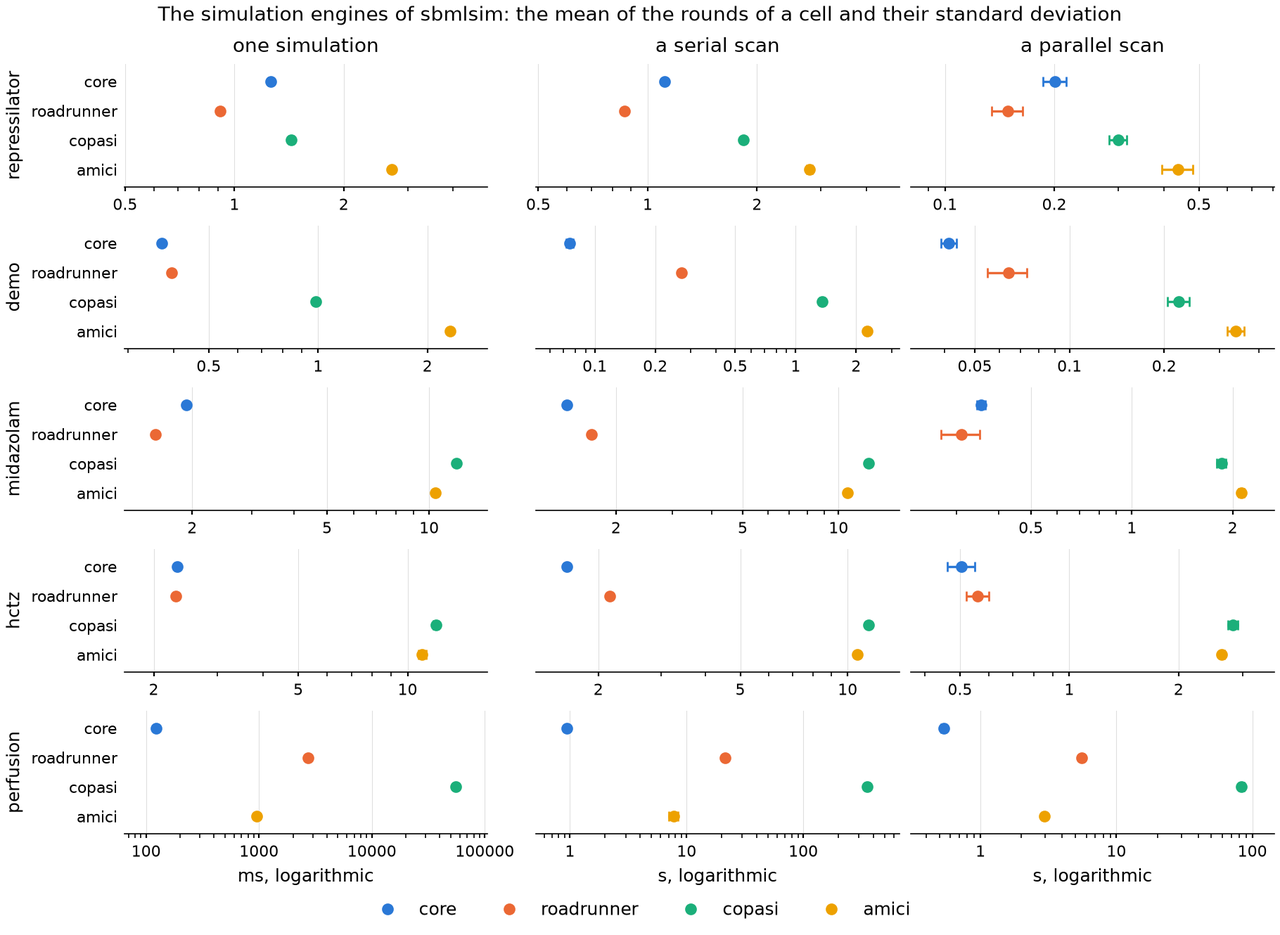
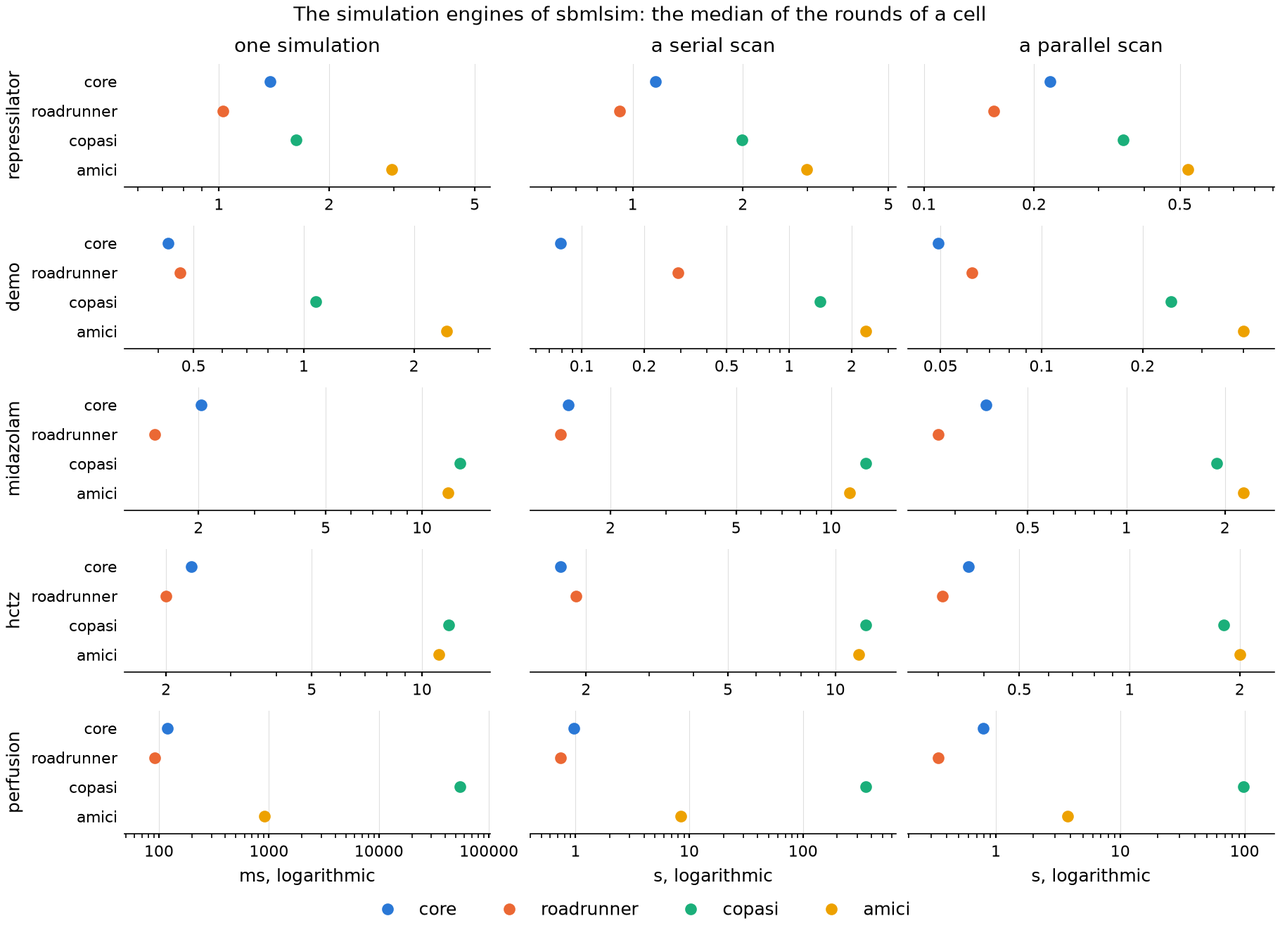
The measured benchmark page: medians, ratios and roadrunner with KLU
The whole page is measured again on an idle machine with libroadrunner
2.12.0.dev683 and sbmlsim-core 0.8.0: the five models, the four engines,
the four cold scans and the four output grids, so no table is left on an
older version.

roadrunner 2.12 turns the page around. With the sparse solver KLU and the
sparse difference quotient Jacobian as its defaults, one simulation of the
large model falls from 2.7 s to 91.7 ms and roadrunner leads it outright,
where it was 22 times behind the engine core. The new section `The sparse
solver of roadrunner` measures the four combinations of the two settings
back to back: 88.5 ms against 2584 ms, a factor of 29, and neither half
helps alone, since the factorization and not the Jacobian evaluation is
where a model of 919 states spends its time.

The cells are medians and the page gains the table of the ratios against
the engine core. The grid table, which was still measured with
sbmlsim-core 0.2.0, is measured again: the crossing it reported is gone,
the ratio is flat between 1.21 and 1.37 across a factor of forty in
output, and the engine core keeps its serial advantage, which is where its
batches gain and its threads do not. The cold scan is the clearest case of
the engines changing places: the first scan of a process costs 0.65 s in
the engine core against 1.2 s in roadrunner, every later one 0.56 s
against 0.31 s.

diff --git a/scripts/engine_benchmark.py b/scripts/engine_benchmark.py
@@ -225,11 +225,12 @@ DISTRIBUTIONS: Final[dict[Engine, str]] = {
 REPETITIONS: Final[int] = 20
 
 #: the rounds of the timed simulations and the scans, whose medians are the
-#: sample the mean and the standard deviation of a cell are taken over, so a
-#: cell is `rounds` measurements and never fewer than `MIN_ROUNDS`
+#: sample the median of a cell is taken over, so a cell is `rounds`
+#: measurements and never fewer than `MIN_ROUNDS`
 ROUNDS: Final[int] = 5
 
-#: the rounds below which a standard deviation says nothing
+#: the rounds below which a median has too small a sample to ignore a round
+#: which was slow because the machine was doing something else
 MIN_ROUNDS: Final[int] = 3
 
 #: the simulations before the timed ones of a round, which are not measured
@@ -432,7 +433,7 @@ MODELS: Final[dict[str, ModelBenchmark]] = {
     # the flow of the pump, the input of such an experiment. One simulation of
     # it is tens of seconds in COPASI, so it is scanned over as many points as
     # the parallel scan has workers, one per worker, and measured in fewer and
-    # shorter rounds; `MIN_ROUNDS` keeps the standard deviation meaningful
+    # shorter rounds; `MIN_ROUNDS` keeps the median a median of three
     "perfusion": ModelBenchmark(
         source=PERFUSION_SBML,
         simulation=Simulation(end=60, steps=100),
@@ -1110,8 +1111,8 @@ def figure(result: BenchmarkResult, path: Path) -> None:
     """Write the figure which compares the engines of every model.
 
     One panel per model and measure, a row of panels per model and a column
-    per measure: the dot of an engine is the mean of its rounds and the
-    whisker its standard deviation, on a logarithmic axis of its own, so the
+    per measure: the dot of an engine is the median of its rounds, on a
+    logarithmic axis of its own, so the
     engines of a model are read against each other, which is what the figure
     is for. The panels of a column do not share their axis: the models of
     this benchmark are five orders of magnitude apart, so a shared axis would
@@ -1181,8 +1182,7 @@ def figure(result: BenchmarkResult, path: Path) -> None:
         fontsize=9,
     )
     figure.suptitle(
-        "The simulation engines of sbmlsim: the median of the rounds of a cell "
-        "and their standard deviation",
+        "The simulation engines of sbmlsim: the median of the rounds of a cell",
         fontsize=10,
     )
     path.parent.mkdir(parents=True, exist_ok=True)
@@ -1694,7 +1694,7 @@ def _rounds[K](
     warmups: int,
     rounds: int,
 ) -> dict[K, Measurement]:
-    """Get the mean and the standard deviation of the rounds of every function.
+    """Get the median of the rounds of every function.
 
     A round is the median of its timed calls (`_turns`), so one slow call does
     not move it, and the rounds are the sample, see `Measurement`.
@@ -1928,9 +1928,9 @@ def _legend(result: BenchmarkResult) -> list[str]:
         f"{name} {version}" for name, version in result.versions.items()
     )
     lines = [
-        f"Measured with {versions}: every cell is the mean and the sample "
-        f"standard deviation of its rounds, a round the median of its timed "
-        f"calls after its warm ups, and the engines take turns within a "
+        f"Measured with {versions}: every cell is the median of its rounds, "
+        f"a round the median of its timed calls after its warm ups, and the "
+        f"engines take turns within a "
         f"model, so a change of the load of the machine reaches every engine "
         f"of a comparison alike. The run measured "
         f"{_count(result.repetitions, 'simulation')} after "

diff --git a/docs/benchmarks.md b/docs/benchmarks.md
@@ -20,9 +20,7 @@ The large model is `benchmarks/models/machine_perfusion_liver_flat.xml`, the liv
 
 The machine: a 12th Gen Intel Core i7-12700 (12 cores, 20 hardware threads) with 62 GB of memory, Ubuntu 24.04.5 with the kernel 7.0.0-43, python 3.14.10. Every measurement on this page was pinned to one hardware thread of each of the eight performance cores (`taskset -c 0,2,4,6,8,10,12,14`), which is where the eight workers of a parallel scan run. It is an interactive desktop and the CPU governor is `powersave`, so the clocks are the kernel's choice and not a fixed frequency.
 
-What that leaves of a cell: a cell is the mean of its rounds and their sample standard deviation, the engines of a model take turns within a round, and the `±` is what the method can say about itself. A deviation which is a few percent of its mean is a cell to read; one which is a quarter of it is a cell which was measured while the machine was doing something else, and the figure shows both at a glance. Pinning is what makes the small deviations possible at all: an earlier unpinned measurement of this page had roadrunner ahead of the engine core on the parallel scan of HCTZ, 0.506 seconds against 0.622, the opposite of every pinned run since. Two cells whose intervals overlap are not ordered by this method, however much their means differ.
-
-The tables come from two runs of that command. An unrelated job on the machine disturbed a different part of each of them, and every measure of every model is taken from the run whose four engines deviate least there, so the engines of a comparison always took their turns within one run, which is the only comparison this page makes. The parallel scans are the noisiest measure in both runs, at a tenth of their mean, because eight workers and the process which collects them share eight hardware threads.
+What that leaves of a cell: a cell is the median of its rounds, each round the median of its timed calls, and the engines of a model take turns within a round. A median of medians is what makes a measurement on a machine which is not perfectly idle worth reading at all: a round which was slow because something else ran moves a mean and does not move a median, and an earlier version of this page reported means with their deviations, where a disturbed cell announced itself with a deviation of a quarter of its mean and had to be measured again. The ratios against the engine core are the other half of the same idea. A ratio of two medians measured in the same turns of the same run survives a machine which is uniformly busy, while the seconds do not, so the ratios are the part of this page which carries to another machine. Pinning is what makes either possible: an earlier unpinned measurement had roadrunner ahead of the engine core on the parallel scan of HCTZ, 0.506 seconds against 0.622, the opposite of every pinned run since.
 
 ## The tables
 
@@ -40,64 +38,85 @@ The tables come from two runs of that command. An unrelated job on the machine d
 
 | model | engine | load s | first compile s | compile s | instantiate s |
 |---|---|---:|---:|---:|---:|
-| repressilator | core | 0.0207 ± 0.00015 | 0.591 | 0.000545 ± 2.3e-06 | 0.00348 ± 1.3e-05 |
-| repressilator | roadrunner | 0.0189 ± 0.00017 | 0.0383 |  |  |
-| repressilator | copasi | 0.0504 ± 0.00026 | 0.0509 |  |  |
-| repressilator | amici | 0.0281 ± 0.00017 | 0.0286 |  |  |
-| demo | core | 0.0244 ± 0.00011 | 0.0297 | 0.000718 ± 9.6e-06 | 0.00337 ± 4.8e-05 |
-| demo | roadrunner | 0.0227 ± 9.3e-05 | 0.0407 |  |  |
-| demo | copasi | 0.0502 ± 0.00041 | 0.049 |  |  |
-| demo | amici | 0.0306 ± 0.00035 | 0.0307 |  |  |
-| midazolam | core | 0.0533 ± 0.00042 | 0.0693 | 0.00284 ± 2.6e-05 | 0.0115 ± 6.8e-05 |
-| midazolam | roadrunner | 0.051 ± 0.00045 | 0.178 |  |  |
-| midazolam | copasi | 0.144 ± 0.00069 | 0.139 |  |  |
-| midazolam | amici | 0.0732 ± 0.00061 | 0.0703 |  |  |
-| hctz | core | 0.0943 ± 0.00082 | 0.107 | 0.00297 ± 3.5e-05 | 0.00955 ± 0.00015 |
-| hctz | roadrunner | 0.1 ± 0.0011 | 0.191 |  |  |
-| hctz | copasi | 0.225 ± 0.0022 | 0.22 |  |  |
-| hctz | amici | 0.127 ± 0.0013 | 0.123 |  |  |
-| perfusion | core | 3.56 ± 0.067 | 4.14 | 0.155 ± 0.0021 | 0.389 ± 0.0041 |
-| perfusion | roadrunner | 4.15 ± 0.022 | 6.01 |  |  |
-| perfusion | copasi | 8.05 ± 0.034 | 6.99 |  |  |
-| perfusion | amici | 4.36 ± 0.13 | 4.49 |  |  |
+| repressilator | core | 0.0222 | 0.0299 | 0.000443 | 0.00013 |
+| repressilator | roadrunner | 0.0203 | 0.0392 |  |  |
+| repressilator | copasi | 0.0551 | 0.0557 |  |  |
+| repressilator | amici | 0.0305 | 0.0309 |  |  |
+| demo | core | 0.0256 | 0.0273 | 0.000562 | 0.000134 |
+| demo | roadrunner | 0.0241 | 0.043 |  |  |
+| demo | copasi | 0.0534 | 0.0522 |  |  |
+| demo | amici | 0.0322 | 0.032 |  |  |
+| midazolam | core | 0.0571 | 0.0679 | 0.00215 | 0.000429 |
+| midazolam | roadrunner | 0.0548 | 0.197 |  |  |
+| midazolam | copasi | 0.154 | 0.147 |  |  |
+| midazolam | amici | 0.0783 | 0.0784 |  |  |
+| hctz | core | 0.0958 | 0.108 | 0.00245 | 0.000344 |
+| hctz | roadrunner | 0.102 | 0.193 |  |  |
+| hctz | copasi | 0.228 | 0.222 |  |  |
+| hctz | amici | 0.129 | 0.126 |  |  |
+| perfusion | core | 3.41 | 3.84 | 0.0992 | 0.00544 |
+| perfusion | roadrunner | 3.98 | 5.57 |  |  |
+| perfusion | copasi | 7.75 | 6.63 |  |  |
+| perfusion | amici | 4.2 | 4.15 |  |  |
 
 ### One simulation and a scan
 
 | model | engine | simulate ms | scan serial s | scan parallel s |
 |---|---|---:|---:|---:|
-| repressilator | core | 1.26 ± 0.014 | 1.11 ± 0.009 | 0.201 ± 0.015 |
-| repressilator | roadrunner | 0.913 ± 0.0096 | 0.862 ± 0.0064 | 0.149 ± 0.015 |
-| repressilator | copasi | 1.43 ± 0.019 | 1.84 ± 0.0067 | 0.3 ± 0.016 |
-| repressilator | amici | 2.71 ± 0.027 | 2.79 ± 0.045 | 0.438 ± 0.044 |
-| demo | core | 0.371 ± 0.0022 | 0.0751 ± 0.003 | 0.0414 ± 0.0023 |
-| demo | roadrunner | 0.395 ± 0.0021 | 0.269 ± 0.0026 | 0.064 ± 0.0091 |
-| demo | copasi | 0.987 ± 0.0092 | 1.36 ± 0.032 | 0.222 ± 0.018 |
-| demo | amici | 2.31 ± 0.017 | 2.27 ± 0.049 | 0.338 ± 0.021 |
-| midazolam | core | 1.92 ± 0.0079 | 1.41 ± 0.0095 | 0.356 ± 0.011 |
-| midazolam | roadrunner | 1.56 ± 0.0072 | 1.68 ± 0.013 | 0.311 ± 0.041 |
-| midazolam | copasi | 12 ± 0.085 | 12.4 ± 0.059 | 1.85 ± 0.058 |
-| midazolam | amici | 10.5 ± 0.092 | 10.6 ± 0.062 | 2.12 ± 0.042 |
-| hctz | core | 2.32 ± 0.029 | 1.63 ± 0.0087 | 0.505 ± 0.044 |
-| hctz | roadrunner | 2.3 ± 0.028 | 2.15 ± 0.0048 | 0.56 ± 0.04 |
-| hctz | copasi | 12 ± 0.18 | 11.5 ± 0.018 | 2.82 ± 0.086 |
-| hctz | amici | 11 ± 0.26 | 10.6 ± 0.082 | 2.63 ± 0.042 |
-| perfusion | core | 123 ± 4.1 | 0.936 ± 0.0059 | 0.536 ± 0.022 |
-| perfusion | roadrunner | 2.72e+03 ± 75 | 21.3 ± 0.58 | 5.58 ± 0.18 |
-| perfusion | copasi | 5.56e+04 ± 1.4e+03 | 353 ± 12 | 83.2 ± 3.4 |
-| perfusion | amici | 958 ± 1.4 | 7.74 ± 0.74 | 2.95 ± 0.086 |
+| repressilator | core | 1.38 | 1.16 | 0.221 |
+| repressilator | roadrunner | 1.02 | 0.923 | 0.155 |
+| repressilator | copasi | 1.62 | 1.99 | 0.35 |
+| repressilator | amici | 2.97 | 2.99 | 0.527 |
+| demo | core | 0.426 | 0.0791 | 0.0493 |
+| demo | roadrunner | 0.459 | 0.292 | 0.0622 |
+| demo | copasi | 1.08 | 1.41 | 0.243 |
+| demo | amici | 2.45 | 2.34 | 0.4 |
+| midazolam | core | 2.03 | 1.47 | 0.373 |
+| midazolam | roadrunner | 1.46 | 1.39 | 0.267 |
+| midazolam | copasi | 13.1 | 12.9 | 1.89 |
+| midazolam | amici | 12 | 11.4 | 2.28 |
+| hctz | core | 2.34 | 1.7 | 0.363 |
+| hctz | roadrunner | 2 | 1.88 | 0.308 |
+| hctz | copasi | 11.8 | 12.2 | 1.81 |
+| hctz | amici | 11.1 | 11.6 | 2 |
+| perfusion | core | 119 | 0.962 | 0.792 |
+| perfusion | roadrunner | 91.7 | 0.741 | 0.346 |
+| perfusion | copasi | 5.45e+04 | 357 | 98.3 |
+| perfusion | amici | 914 | 8.46 | 3.76 |
 
-![The simulation engines of sbmlsim: one panel per model and measure, the dot of an engine its mean and the whisker its standard deviation, on a logarithmic axis](images/benchmarks/engines.png)
+### Against the engine core
 
-The figure is the two columns of seconds above, a panel per model and measure. Each panel carries the axis of its own model, since the models are five orders of magnitude apart and none of them is comparable with another: each is its own simulation over its own number of points. A dot and not a bar, because a bar on a logarithmic axis encodes its length as the logarithm of its value.
+| model | engine | load | one simulation | a serial scan | a parallel scan |
+|---|---|---:|---:|---:|---:|
+| repressilator | core | 1 | 1 | 1 | 1 |
+| repressilator | roadrunner | 0.916 | 0.741 | 0.798 | 0.703 |
+| repressilator | copasi | 2.48 | 1.17 | 1.72 | 1.58 |
+| repressilator | amici | 1.38 | 2.15 | 2.58 | 2.38 |
+| demo | core | 1 | 1 | 1 | 1 |
+| demo | roadrunner | 0.94 | 1.08 | 3.69 | 1.26 |
+| demo | copasi | 2.08 | 2.52 | 17.8 | 4.94 |
+| demo | amici | 1.26 | 5.75 | 29.6 | 8.11 |
+| midazolam | core | 1 | 1 | 1 | 1 |
+| midazolam | roadrunner | 0.959 | 0.717 | 0.944 | 0.715 |
+| midazolam | copasi | 2.7 | 6.46 | 8.72 | 5.06 |
+| midazolam | amici | 1.37 | 5.91 | 7.76 | 6.11 |
+| hctz | core | 1 | 1 | 1 | 1 |
+| hctz | roadrunner | 1.06 | 0.855 | 1.11 | 0.849 |
+| hctz | copasi | 2.38 | 5.04 | 7.17 | 4.97 |
+| hctz | amici | 1.35 | 4.75 | 6.86 | 5.5 |
+| perfusion | core | 1 | 1 | 1 | 1 |
+| perfusion | roadrunner | 1.17 | 0.773 | 0.77 | 0.437 |
+| perfusion | copasi | 2.27 | 459 | 371 | 124 |
+| perfusion | amici | 1.23 | 7.7 | 8.79 | 4.74 |
 
 ### The agreement with roadrunner
 
 | model | engine | max rel. diff. | max abs. diff. |
 |---|---|---:|---:|
-| repressilator | core | 1.78e-10 |  |
+| repressilator | core | 4.32e-12 |  |
 | repressilator | roadrunner | 0 |  |
-| repressilator | copasi | 4.31e-09 |  |
-| repressilator | amici | 3.87e-09 |  |
+| repressilator | copasi | 4.33e-09 |  |
+| repressilator | amici | 3.69e-09 |  |
 | demo | core | 0 | 0 |
 | demo | roadrunner | 0 | 0 |
 | demo | copasi | 0 | 0 |
@@ -106,18 +125,19 @@ The figure is the two columns of seconds above, a panel per model and measure. E
 | midazolam | roadrunner | 0 | 0 |
 | midazolam | copasi | 2.68e-07 | 1.64e-23 |
 | midazolam | amici | 2.72e-07 | 0 |
-| hctz | core | 2.42e-11 | 0 |
+| hctz | core | 1.20e-11 | 0 |
 | hctz | roadrunner | 0 | 0 |
-| hctz | copasi | 1.62e-08 | 1.17e-21 |
+| hctz | copasi | 1.63e-08 | 1.40e-21 |
 | hctz | amici | 1.63e-08 | 0 |
-| perfusion | core | 5.38e-06 | 0 |
+| perfusion | core | 7.49e-06 | 0 |
 | perfusion | roadrunner | 0 | 0 |
 | perfusion | copasi | 7.81e-03 | 0 |
-| perfusion | amici | 5.46e-06 | 0 |
+| perfusion | amici | 7.45e-06 | 0 |
 
-Measured with python 3.14.10, sbmlsim 0.29.0, libroadrunner 2.11.1.dev655, sbmlsim-core 0.7.0, python-copasi 4.48.311, amici 1.2.0: every cell is the mean and the sample standard deviation of its rounds, a round the median of its timed calls after its warm ups, and the engines take turns within a model, so a change of the load of the machine reaches every engine of a comparison alike. The run measured 20 simulations after 3 warm ups in 5 rounds and scanned 1000 points unless the model above says otherwise, and the parallel scans ran on 8 workers.
+Measured with python 3.14.10, sbmlsim 0.29.0, libroadrunner 2.12.0.dev683, sbmlsim-core 0.8.0, python-copasi 4.48.311, amici 1.2.0: every cell is the median of its rounds, a round the median of its timed calls after its warm ups, and the engines take turns within a model, so a change of the load of the machine reaches every engine of a comparison alike. The run measured 20 simulations after 3 warm ups in 5 rounds and scanned 1000 points unless the model above says otherwise, and the parallel scans ran on 8 workers.
 
-- A cell is `mean ± sd` over the rounds of its model and the mean alone below 3 rounds, where a deviation of so small a sample says nothing. A deviation which is a large part of its mean is a cell to measure again on an idle machine rather than one to read.
+- A cell is the median of the rounds of its model, each round the median of its timed calls: a round which was slow because the machine was doing something else moves a mean and not a median, which is why the tables report medians and no deviation.
+- The table against the engine core is the median of an engine divided by the median of the engine core on the same model and measure, so the engine core is 1, a number above it is that many times its time and a number below it is a cell it loses. The ratios are what carries from one machine to another; the seconds of the tables above belong to this one.
 - `load s` is `load_model` with the model already compiled, `first compile s` the first load of that model in this process, the one which compiles it (the LLJIT of roadrunner, the module of the engine core); the runtime of the engine core is created once per process, so only the first model of a run pays it in this column. AMICI is loaded from a cache which was warmed before the measurement, so its compilation from cold, minutes per model, is not measured, and COPASI, which compiles the model on every load, has the same measurement twice.
 - `compile s` and `instantiate s` are the compilation of the SBML into the module of the engine core and its instantiation in the runtime, which `load s` of the other engines does not break out. They are no part of `load s` of the core either, which finds the module compiled (the engine keeps it per SBML and process), and they are part of its `first compile s`.
 - `simulate ms` is one `Simulator.simulate` at the defaults of `Simulator`, i.e. the tolerances a run has and not the tighter ones of the agreement below, which is measured in simulations of its own: every speed of this table is the speed of a run as a user gets it. `scan serial s` and `scan parallel s` are that simulation over the points of the scan on one worker and on the workers of the parallel scan below.
@@ -127,13 +147,30 @@ Measured with python 3.14.10, sbmlsim 0.29.0, libroadrunner 2.11.1.dev655, sbmls
 - `max rel. diff.` and `max abs. diff.` are the agreement with roadrunner at atol 1e-12 and rtol 1e-10: the largest difference of a column divided by the largest magnitude of that column in roadrunner, and, for a column which is identically zero in roadrunner, where a relative difference is undefined, the largest absolute difference. roadrunner is the reference, COPASI is not bitwise reproducible across loads of a model.
 - An empty cell is a measurement which was not made.
 
+![The engines of sbmlsim on five models, one panel per model and measure](images/benchmarks/engines.png)
+
 ## What the tables say
 
-- **Loading a model.** On the four packaged models roadrunner and the engine core load an already compiled model within a few percent of each other (94.3 ms against 100 ms for HCTZ), COPASI takes two to three times as long and compiles the model on every load, and AMICI imports its compiled extension in about 1.3 times roadrunner's load. The large model reorders them: the engine core loads it in 3.56 s, roadrunner in 4.15 s, AMICI in 4.36 s and COPASI in 8.05 s. Compiling is where they differ most. roadrunner's LLJIT adds about 91 ms to the load of HCTZ (191 ms against 100 ms) and 1.9 s to the load of the perfusion model (6.01 s against 4.15 s), while the engine core writes the WebAssembly module of HCTZ in 3 ms and instantiates it in 10 ms, and of the perfusion model in 0.16 s and 0.39 s. The 0.59 s of the first model of a run, the repressilator, is almost all the runtime of the engine, which compiles the engine itself and is created once per process. AMICI is the exception the table cannot show: its first compilation of a model is minutes, once per machine, and the measurement warms that cache before it times anything.
-- **One simulation.** On the small models the two fast engines trade places and the margins are small: roadrunner leads on the repressilator (0.913 ms against 1.26 ms) and midazolam (1.56 ms against 1.92 ms), the engine core leads on `demo` (0.371 ms against 0.395 ms), and HCTZ is a tie within the deviation of the cells (2.32 ms against 2.30 ms). COPASI and AMICI take five to eight times as long on the two physiologically based models. The large model is a different regime altogether: the engine core simulates it in 123 ms, AMICI in 0.96 s, roadrunner in 2.7 s and COPASI in 56 s - the engine core is 22 times faster than roadrunner and 450 times faster than COPASI on the model where a simulation actually costs something.
-- **A serial scan.** The engine core runs the 1000 points of `demo` in 0.075 s against roadrunner's 0.269 s and the 1000 points of HCTZ in 1.63 s against 2.15 s, more than the margins of one simulation of those models. The reason is where the python is: a serial scan of roadrunner runs point by point through python, while a scan of the engine core hands a whole chunk, here up to 250 points, to the engine as one batch, so the per-point python is paid once per chunk. The smaller the model, the more that matters, which is why `demo` gains most and the repressilator, whose oscillating integration is the work, gains nothing at all (1.11 s against 0.862 s). On the eight points of the perfusion model, where the integration is everything, the engine core needs 0.94 s against AMICI's 7.7 s, roadrunner's 21.3 s and COPASI's 353 s.
-- **A parallel scan.** On eight workers the engine core is ahead on `demo` (0.041 s against 0.064 s) and HCTZ (0.505 s against 0.56 s) and roadrunner is ahead on the repressilator (0.149 s against 0.201 s) and midazolam (0.311 s against 0.356 s), the same four orderings as the serial scans and for the same reason. The two parallelize different things: roadrunner's eight worker processes each run whole points, their integration and the python around them, while the engine core runs eight threads of the engine inside one python process, which assembles every result alone. That shows on the large model, where the engine core goes from 0.94 s to 0.54 s, a factor of 1.7 on eight threads, while roadrunner goes from 21.3 s to 5.6 s, a factor of 3.8 on eight processes - and the engine core still finishes the scan ten times sooner. The section below measures that one python process directly, cold against warm.
-- **The agreement.** At atol 1e-12 and rtol 1e-10 every engine agrees with roadrunner to 2.8e-07 relative or better on the packaged models, and on `demo` every one of them reproduces roadrunner exactly. The engine core is the closest there, by a factor of 16 to 660 on the models which differ at all (2.42e-11 on HCTZ against 1.68e-08 for COPASI and 1.63e-08 for AMICI), because it integrates with the vector of absolute tolerances which roadrunner computes per state, while COPASI and AMICI have a single absolute tolerance and are given the smallest one with a safety factor, see [Absolute tolerances](simulation.md#absolute-tolerances). The large model separates them: the engine core and AMICI stay at 5.4e-06 of roadrunner, while COPASI is at 7.8e-03, five orders of magnitude further away, which is a model to compare engine by engine before trusting a number, see [Comparing the engines](simulation.md#comparing-the-engines). Agreeing with roadrunner more closely is not the same as being more accurate: the roadrunner rows are 0 because roadrunner is the reference of the column, not because it is the truth, and the error of the engine core is not bounded by roadrunner's, see [core](simulation.md#core).
+**roadrunner 2.12 changed this page.** Up to libroadrunner 2.11 CVODE factorized a dense Jacobian, and the large model, whose Jacobian is 0.45 % dense at 919 states, spent nearly all of its time there: one simulation took 2.7 s and the engine core was 22 times faster. roadrunner 2.12 ([#1450](https://github.com/sys-bio/roadrunner/pull/1450)) added the sparse direct solver KLU and a colored sparse difference quotient Jacobian, and both are its defaults (`linear_solver="klu"`, `jacobian="sparse_difference_quotient"`). The same simulation now takes 91.7 ms, a factor of 29, and roadrunner leads the large model outright. The two settings only work together: with either one alone CVODE falls back to the dense factorization and the model takes 3.3 s, since at 919 states the factorization is the whole cost and the Jacobian evaluation is not.
+
+- **Loading a model.** On the four packaged models roadrunner and the engine core load an already compiled model within a few percent of each other (0.102 s against 0.0958 s for HCTZ), COPASI takes a bit over twice as long and compiles the model on every load, and AMICI imports its compiled extension in about 1.3 times roadrunner's load. The large model keeps that order: the engine core loads it in 3.41 s, roadrunner in 3.98 s, AMICI in 4.20 s and COPASI in 7.75 s. Compiling is where they differ most. roadrunner's LLJIT adds about 91 ms to the load of HCTZ (0.193 s against 0.102 s) and 1.6 s to the load of the perfusion model (5.57 s against 3.98 s), while the engine core writes the WebAssembly module of HCTZ in 2.5 ms and instantiates it in 0.3 ms, and of the perfusion model in 99 ms and 5.4 ms. AMICI is the exception the table cannot show: its first compilation of a model is minutes, once per machine, and the measurement warms that cache before it times anything.
+- **One simulation.** roadrunner leads every model of this run. On the small models the margins are a quarter or less and the two engines are close enough that the ordering moves with the run: the repressilator is 1.02 ms against 1.38 ms, `demo` 0.459 ms against 0.426 ms (the one cell the engine core takes), midazolam 1.46 ms against 2.03 ms and HCTZ 2.00 ms against 2.34 ms. COPASI and AMICI take about five to six times the engine core on the two physiologically based models. The large model is where the numbers separate: roadrunner 91.7 ms, the engine core 119 ms, AMICI 914 ms and COPASI 54.5 s, so COPASI is 459 times the engine core and 595 times roadrunner on the model where a simulation actually costs something.
+- **A serial scan.** The engine core runs the 1000 points of `demo` in 0.0791 s against roadrunner's 0.292 s, nearly four times less, and HCTZ in 1.70 s against 1.88 s. The reason is where the python is: a serial scan of roadrunner runs point by point through python, while a scan of the engine core hands a whole chunk, here up to 250 points, to the engine as one batch, so the per-point python is paid once per chunk. The smaller the model, the more that matters, which is why `demo` gains most and the repressilator, whose oscillating integration is the work, gains nothing at all (1.16 s against 0.923 s). On the eight points of the perfusion model, where the integration is everything, roadrunner needs 0.741 s against the engine core's 0.962 s, AMICI's 8.46 s and COPASI's 357 s.
+- **A parallel scan.** On eight workers the engine core keeps `demo` (0.0493 s against 0.0622 s) and roadrunner takes the other four. The two parallelize different things: roadrunner's eight worker processes each run whole points, their integration and the python around them, while the engine core runs eight threads of the engine inside one python process, which assembles every result alone. That shows on the large model, where roadrunner goes from 0.741 s to 0.346 s, a factor of 2.1 on eight processes, while the engine core goes from 0.962 s to 0.792 s, a factor of 1.2 on eight threads: eight points of this model produce a lot of output, and assembling it is serial python. The section below measures that one python process directly, cold against warm.
+- **The agreement.** At atol 1e-12 and rtol 1e-10 every engine agrees with roadrunner to 2.8e-07 relative or better on the packaged models, and on `demo` every one of them reproduces roadrunner exactly. The engine core is the closest there, by a factor of 16 on midazolam and of about 1400 on HCTZ and 1000 on the repressilator, because it integrates with the vector of absolute tolerances which roadrunner computes per state, while COPASI and AMICI have a single absolute tolerance and are given the smallest one with a safety factor, see [Absolute tolerances](simulation.md#absolute-tolerances). The large model separates them differently: the engine core and AMICI are level there, both at 7.5e-06 of roadrunner, while COPASI is at 7.8e-03, three orders of magnitude further away, which is a model to compare engine by engine before trusting a number, see [Comparing the engines](simulation.md#comparing-the-engines). Agreeing with roadrunner more closely is not the same as being more accurate: the roadrunner rows are 0 because roadrunner is the reference of the column, not because it is the truth, and the error of the engine core is not bounded by roadrunner's, see [core](simulation.md#core).
+
+## The sparse solver of roadrunner
+
+The factor of 29 above is worth its own measurement, since it is the difference between a page where roadrunner is last on large models and one where it is first. `linear_solver` and `jacobian` are settings of `Simulator`, so the four combinations are measured in one process on the perfusion model, each the median of three rounds:
+
+| `linear_solver` | `jacobian` | one simulation |
+| --- | --- | ---: |
+| `klu` | `sparse_difference_quotient` | 88.5 ms |
+| `dense` | `difference_quotient` | 2584 ms |
+| `dense` | `sparse_difference_quotient` | 2451 ms |
+| `klu` | `difference_quotient` | 2612 ms |
+
+The first row is what roadrunner 2.12 does by default and the second is what 2.11 did. Neither half helps alone: KLU with a dense difference quotient Jacobian falls back to the dense solver, and the sparse Jacobian with the dense solver saves nothing worth measuring, because the factorization and not the Jacobian evaluation is where a model of 919 states spends its time. A model with no sparsity pattern, for instance one under conserved moiety analysis, takes the dense path whatever these settings say. The packaged models are too small for any of this to matter: HCTZ has 22 states, where the dense factorization is a rounding error. The four rows were measured back to back in one process, each the median of three rounds of three simulations, which is what the ratio rests on.
 
 ## A cold scan and a warm scan are different measurements
 
@@ -151,14 +188,14 @@ done
 
 | engine | scan parallel cold s | scan parallel s | cold / warm |
 | --- | ---: | ---: | ---: |
-| core | 0.508 | 0.486 ± 0.044 | 1.0 |
-| roadrunner | 2.48 | 0.643 ± 0.023 | 3.9 |
-| copasi | 4.28 | 2.99 ± 0.2 | 1.4 |
-| amici | 9.85 | 4.02 ± 0.76 | 2.4 |
+| core | 0.649 | 0.555 | 1.2 |
+| roadrunner | 1.23 | 0.306 | 4.0 |
+| copasi | 2.80 | 1.67 | 1.7 |
+| amici | 3.48 | 2.67 | 1.3 |
 
-The first parallel scan of a process costs roadrunner 3.9 times its warm one and AMICI 2.4 times, because they start eight worker processes and load the model in each of them, while the engine core, which starts no pool, pays nothing measurable for its first batch of threads. So the engines change places with the question being asked: the first scan of 1000 points in a process costs 0.51 s in the engine core and 2.5 s in roadrunner, a factor of five, while in a session or a fit which scans again and again every later scan costs 0.49 s in the engine core and 0.64 s in roadrunner, a factor of 1.3. A single number for "how much faster" says nothing unless it says which of the two it is, and at which output grid, see the next section.
+The first parallel scan of a process costs roadrunner 4.0 times its warm one, because it starts eight worker processes and loads the model in each of them, while the engine core, which starts no pool, pays 1.2 times its warm scan for its first batch of threads. So the two engines change places with the question being asked, and this is the clearest case of it on the page: the first scan of 1000 points in a process costs 0.65 s in the engine core and 1.2 s in roadrunner, so the engine core is twice as fast, while in a session or a fit which scans again and again every later scan costs 0.56 s in the engine core and 0.31 s in roadrunner, so roadrunner is twice as fast. A single number for "how much faster" says nothing unless it says which of the two it is, and at which output grid, see the next section.
 
-A serial scan has no cold run worth the name: the same four runs give 2.15 s cold against 2.31 s warm for the engine core, 2.9 against 2.87 for roadrunner, 17.5 against 15.9 for COPASI and 11.8 against 12.0 for AMICI, two of them below their warm mean, which is the spread of the method and not a cold cost. The pool of worker processes is what a cold scan pays for.
+A serial scan has no cold run worth the name: the same four runs give 2.06 s cold against 1.94 s warm for the engine core, 1.83 against 1.83 for roadrunner and 11.8 against 11.8 for COPASI, with only AMICI showing a real difference (15.4 against 11.9). The pool of worker processes is what a cold scan pays for.
 
 ## The width of the output grid
 
@@ -174,12 +211,12 @@ done
 
 | output times per point | core s | roadrunner s | core / roadrunner |
 | ---: | ---: | ---: | ---: |
-| 11 | 0.301 | 0.353 | 0.85 |
-| 26 | 0.308 | 0.413 | 0.75 |
-| 101 | 0.417 | 0.494 | 0.84 |
-| 401 | 0.905 | 0.795 | 1.14 |
+| 11 | 0.268 | 0.209 | 1.28 |
+| 26 | 0.304 | 0.251 | 1.21 |
+| 101 | 0.395 | 0.288 | 1.37 |
+| 401 | 0.876 | 0.681 | 1.29 |
 
-This is the one table on the page which was measured with sbmlsim-core 0.2.0 and sbmlsim 0.25.0 rather than the versions below the tables above; the measurement which would replace it came out while the machine was busy, with deviations of up to a whole mean, and a noisy table says less than a dated one. Both engines get slower with a wider grid and the engine core gets slower faster: it is ahead by 15 to 25 % up to about a hundred output times per point and behind by about 15 % at 401. How large that lead is moves with the run, 0.85, 0.75 and 0.84 of roadrunner's time on the three narrower grids; what reproduces is the lead itself and the crossing between 101 and 401 output times. That is the mechanism behind the workers of a parallel scan: threads of the engine waiting on the one python process of the run. The serial scans of the same four runs show the other side of it, 1.10, 1.14, 1.31 and 2.03 seconds for the engine core against 1.86, 1.88, 2.30 and 4.26 for roadrunner, so the engine keeps its serial advantage at every grid and it is the threads which pay for the width. The tables at the top of the page use 101 output times for every model. A single simulation has no such threads either, so none of this reaches it.
+Both engines get slower with a wider grid and the ratio hardly moves, between 1.21 and 1.37 of roadrunner's time across a factor of forty in output: on this model and this machine the threads of the engine core are behind eight worker processes at every width, and the width is not what decides it. An earlier measurement of this table, with libroadrunner 2.11 and sbmlsim-core 0.2.0, had the engine core ahead by 15 to 25 % up to a hundred output times and behind at 401, so the crossing it reported was within the margin that roadrunner's own release has since swallowed. The serial scans of the same four runs show the other side of it, 1.51, 1.55, 1.70 and 2.37 seconds for the engine core against 1.41, 1.49, 1.89 and 3.43 for roadrunner: the engine core starts level and ends 31 % ahead, so serially its batches gain exactly where its threads do not. That is the mechanism behind the workers of a parallel scan: threads of the engine waiting on the one python process of the run, which has more to assemble the wider the grid. The tables at the top of the page use 101 output times for every model. A single simulation has no such threads either, so none of this reaches it.
 
 ## Measuring your own model
 
@@ -192,4 +229,4 @@ uv run --no-sync python scripts/engine_benchmark.py --models hctz --points 200 \
     --out results/tables.md --figure results/engines.png --json results/benchmark.json
 ```
 
-`results/` is ignored by the repository, so the files do not turn up as changes of a checkout. The method is the one of a microbenchmark: the simulations of a cell are timed `--repetitions` times after three untimed ones (`WARMUPS` of the script), that is one round whose median is its time, and the cell is the mean of `--rounds` such rounds and their sample standard deviation, which is the `±` of every timed cell (the mean alone below three rounds, where a deviation of so small a sample says nothing); the engines of a model take turns within a round, so the machine treats them alike, and a model is measured on its own with the points and rounds it carries. A scan is seconds rather than milliseconds, so it runs once before the timed runs and then once per round. The agreement is measured in simulations of its own at atol 1e-12 and rtol 1e-10, where the engines agree, see [Comparing the engines](simulation.md#comparing-the-engines), while every speed of the table is measured at the defaults of `Simulator`, i.e. at the tolerances of a run. Pin the process to a fixed set of cores and leave the machine alone, as the runs of this page did, if you want numbers which compare across runs: every disturbed cell on this page announced itself as a deviation of a quarter of its mean or more, which is what the `±` is there for.
+`results/` is ignored by the repository, so the files do not turn up as changes of a checkout. The method is the one of a microbenchmark: the simulations of a cell are timed `--repetitions` times after three untimed ones (`WARMUPS` of the script), that is one round whose median is its time, and the cell is the median of `--rounds` such rounds; the engines of a model take turns within a round, so the machine treats them alike, and a model is measured on its own with the points and rounds it carries. A scan is seconds rather than milliseconds, so it runs once before the timed runs and then once per round. The agreement is measured in simulations of its own at atol 1e-12 and rtol 1e-10, where the engines agree, see [Comparing the engines](simulation.md#comparing-the-engines), while every speed of the table is measured at the defaults of `Simulator`, i.e. at the tolerances of a run. Pin the process to a fixed set of cores, as the runs of this page did, if you want numbers which compare across runs, and read the ratios rather than the seconds if you want to compare with the tables above: the medians survive a machine which is busy now and then, and the ratios survive a machine which is slower than this one throughout.
